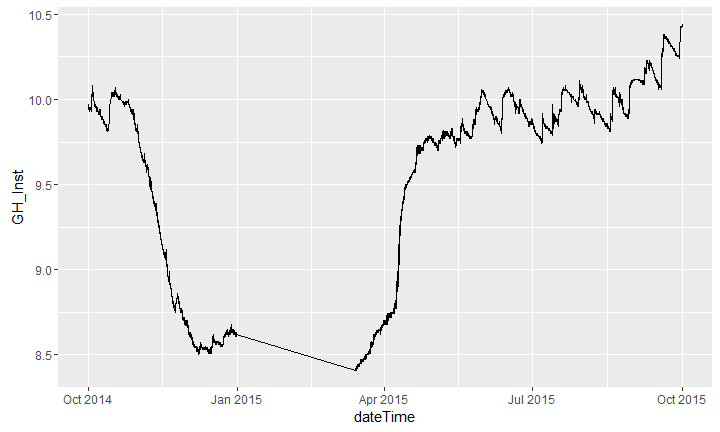
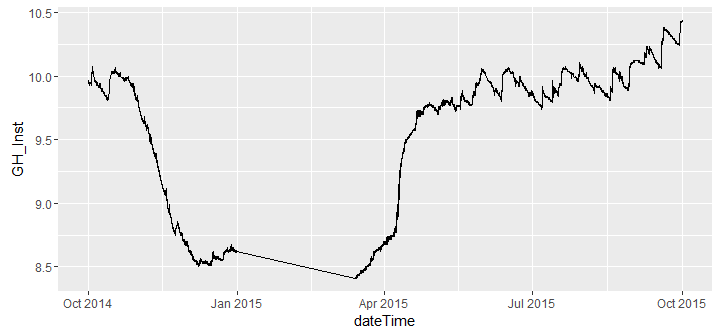
More slides.

diff --git a/dataRetrieval.html b/dataRetrieval.html
@@ -407,7 +407,20 @@ ts &lt;- ggplot(yahara,
       geom_line()
 ts</pre>
 
[2 lines of base64/hex data omitted]
+
+</article></slide><slide class=''><hgroup><h2>Use attributes for metadata:</h2></hgroup><article  id="use-attributes-for-metadata" class="smaller ">
+
+<pre class = 'prettyprint lang-r'>parameterInfo &lt;- attr(yahara, &quot;variableInfo&quot;)
+siteInfo &lt;- attr(yahara, &quot;siteInfo&quot;)
+  
+ts &lt;- ts +
+      xlab(&quot;&quot;) +
+      ylab(parameterInfo$parameter_desc) +
+      ggtitle(siteInfo$station_nm)
+ts</pre>
+
[1 lines of base64/hex data omitted]
 
 </article></slide><slide class=''><hgroup><h2>Water Quality Portal</h2></hgroup><article  id="water-quality-portal" class="smaller ">
 

diff --git a/dataRetrieval.md b/dataRetrieval.md
@@ -277,6 +277,25 @@ ts
 
 ![](..\dataRetrieval_files/figure-html/unnamed-chunk-16-1.png)
     
+##  Use attributes for metadata:
+
+
+
+```r
+parameterInfo <- attr(yahara, "variableInfo")
+siteInfo <- attr(yahara, "siteInfo")
+  
+ts <- ts +
+      xlab("") +
+      ylab(parameterInfo$parameter_desc) +
+      ggtitle(siteInfo$station_nm)
+ts
+```
+
+![](..\dataRetrieval_files/figure-html/unnamed-chunk-17-1.png)
+
+    
+    
 ## Water Quality Portal
 
 [Water Quality Portal](http://www.waterqualitydata.us/)
